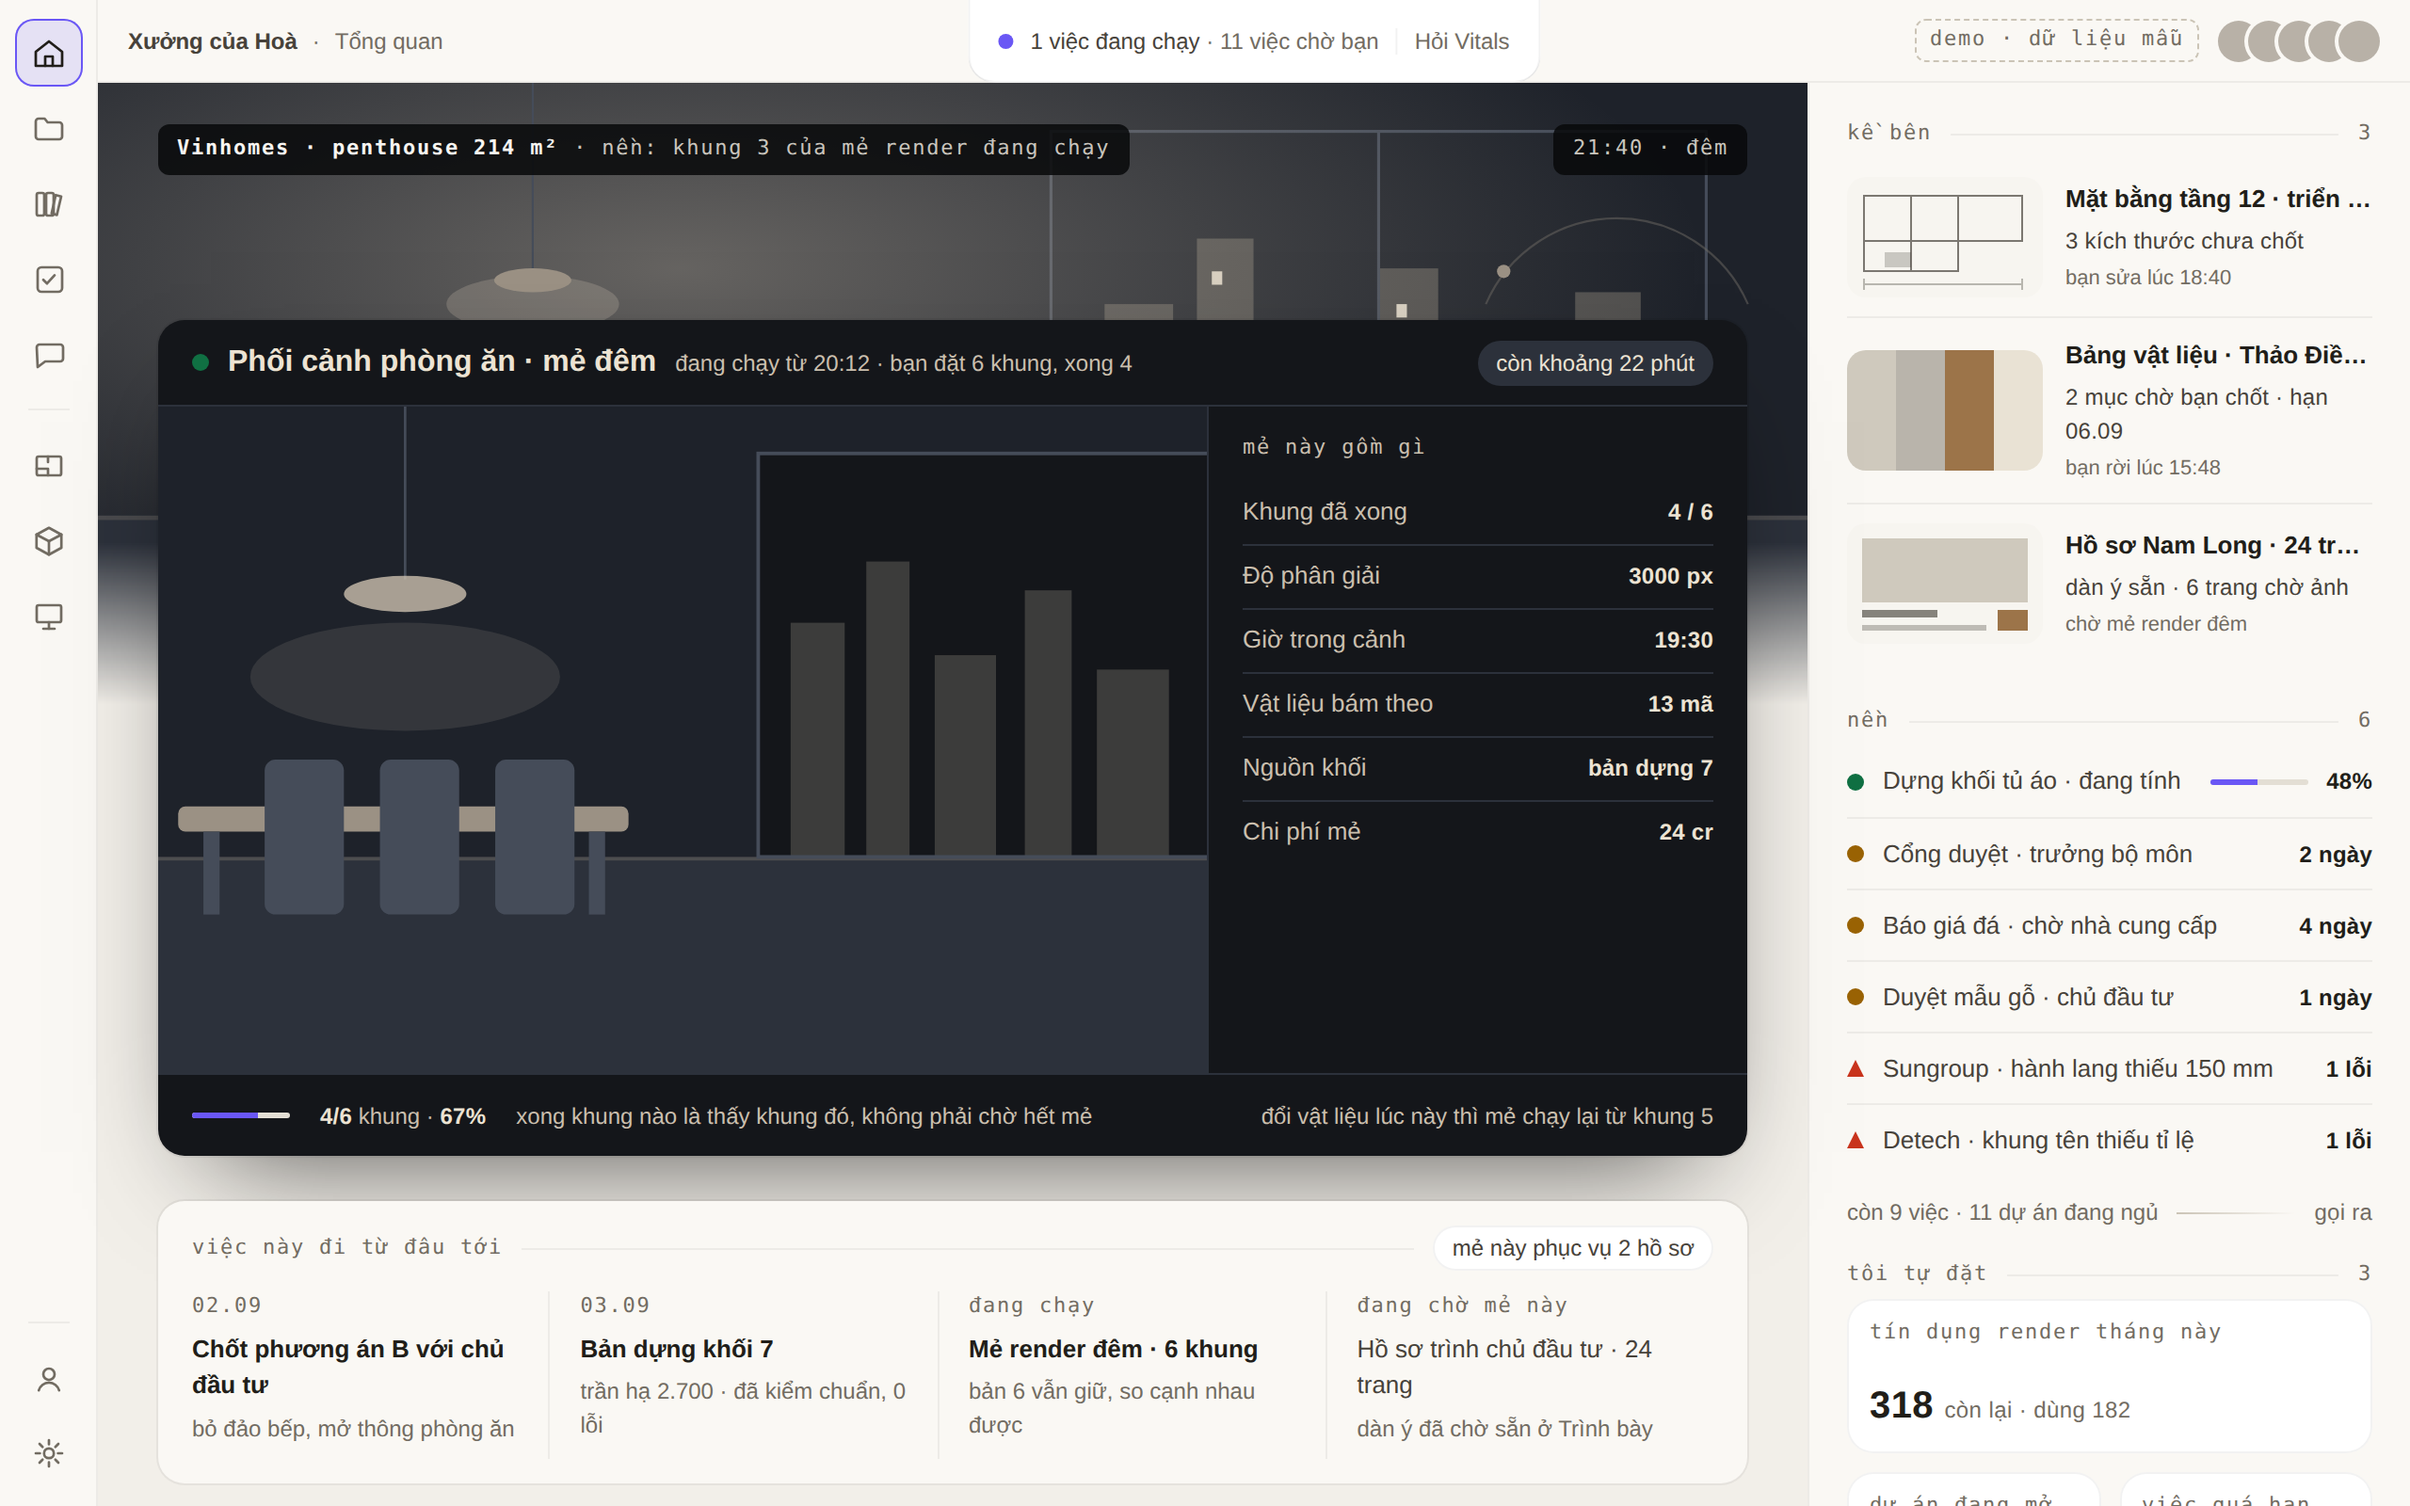
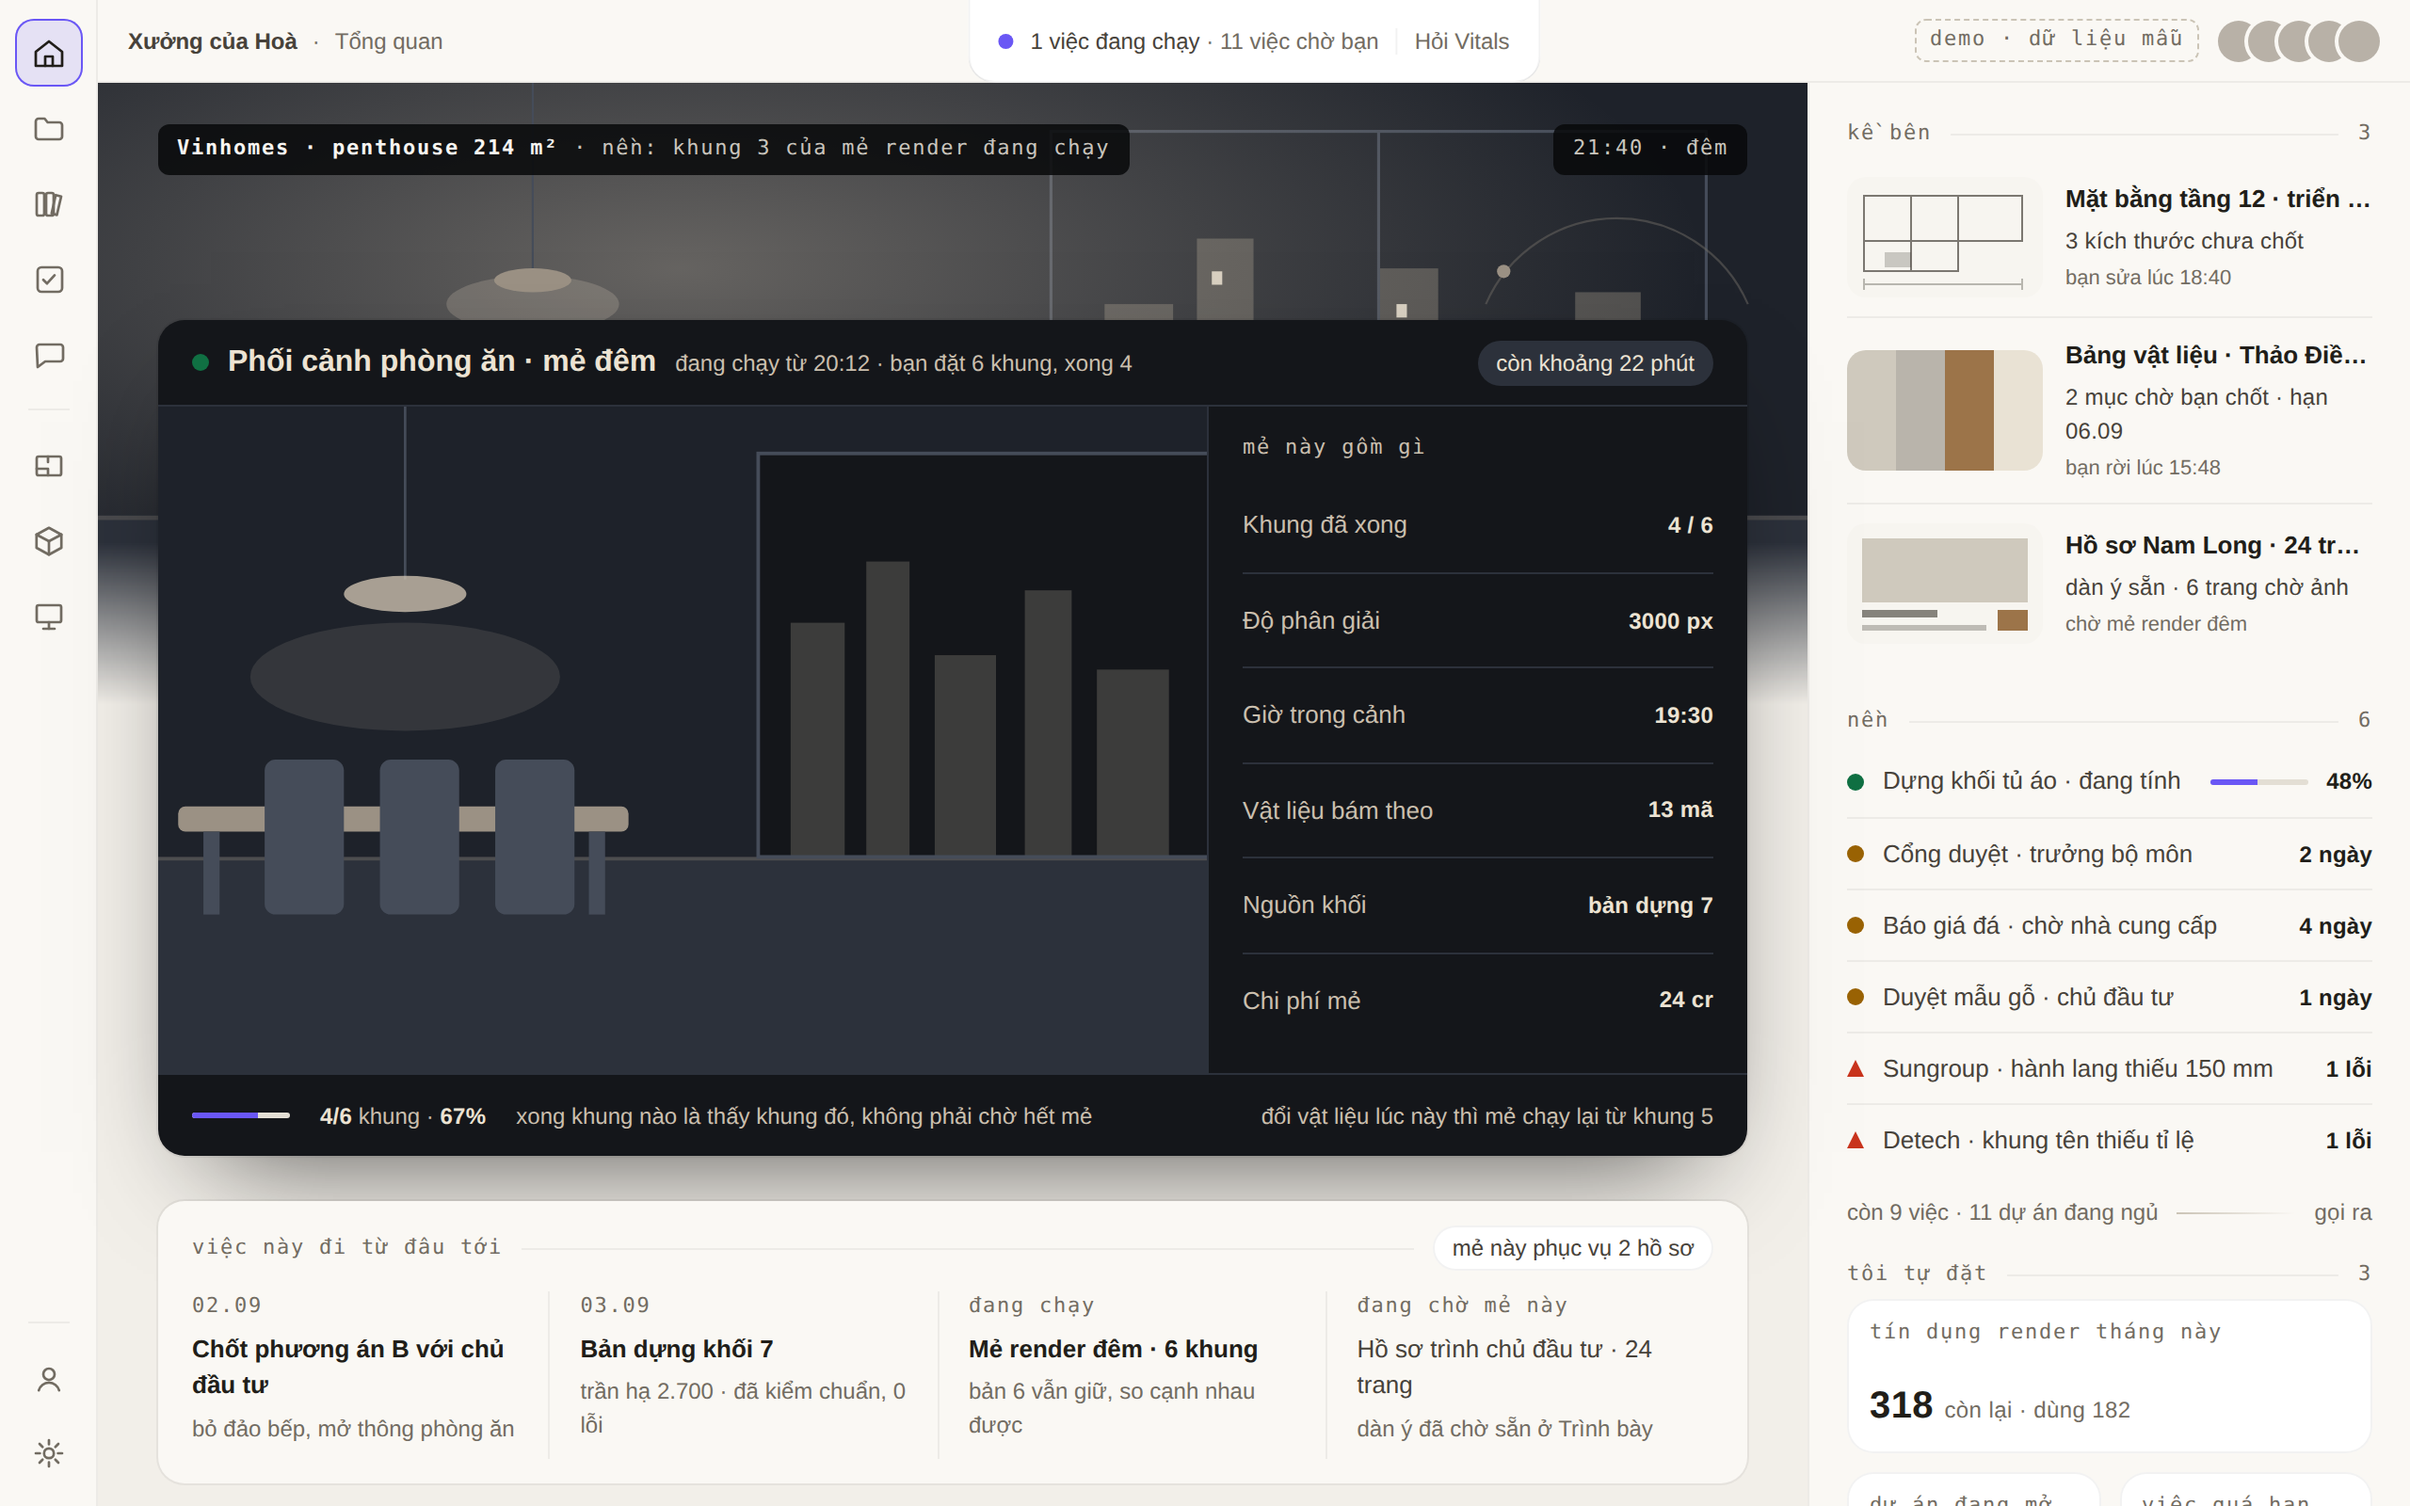
design(home): dọn hai lỗ rỗng lộ ra khi soi bằng mắt
- day-du: cột thông số cao hơn tổng 6 hàng cố định -> hàng giãn đều, hết khoảng
  chết ở đáy.
- rong: cột phải hụt nội dung thật -> thêm một mục "sẵn để mở ngay" (khung tên
  bộ nhận diện) và kệ widget 2x1 + 2 ô 1x1.

Cả hai máy đều báo sạch TRƯỚC lẫn SAU — đây là loại lỗi chỉ mắt bắt được,
đúng lý do N-16 bắt bố cục phải đi qua mắt.

soi-ban-ve 12/12 lượt sạch · hinh-hoc 0 · tu-dien 0.

Claude-Session: https://claude.ai/code/session_01U2UxY4LmQattzfXbrX5rUZ

diff --git a/docs/mocks/mock-home-lock-rong.html b/docs/mocks/mock-home-lock-rong.html
@@ -156,7 +156,7 @@
 
         <!-- Thang KHÔNG biến mất khi rỗng — nó đổi thứ đứng trên bậc:
              từ "việc cần tôi" sang "vốn tôi có". Đó là chỗ khác "Home trừ ảnh hero". -->
-        <div class="muc"><span class="nhan">sẵn để mở ngay</span><span class="ke2"></span><span class="dem">2</span></div>
+        <div class="muc"><span class="nhan">sẵn để mở ngay</span><span class="ke2"></span><span class="dem">3</span></div>
 
         <div class="ke-ben">
           <span class="mat-vat" aria-hidden="true"><svg viewBox="0 0 104 64" preserveAspectRatio="xMidYMid slice">
@@ -183,6 +183,20 @@
           </span>
         </div>
 
+        <div class="ke-ben an-hep">
+          <span class="mat-vat" aria-hidden="true"><svg viewBox="0 0 104 64" preserveAspectRatio="xMidYMid slice">
+            <rect x="0" y="0" width="104" height="64" fill="var(--nen-sang)"/>
+            <g stroke="var(--muc)" stroke-width="1" opacity=".5" fill="none">
+              <rect x="9" y="9" width="86" height="46"/><path d="M9 42h86M62 42v13"/></g>
+            <rect x="14" y="14" width="26" height="4" fill="var(--muc)" opacity=".5"/>
+            <rect x="14" y="22" width="40" height="3" fill="var(--muc)" opacity=".25"/></svg></span>
+          <span class="chu">
+            <span class="ten">Khung tên · bộ nhận diện trống</span>
+            <span class="con-so so">9 ô · chờ Brand Kit của dự án</span>
+            <span class="khi">mẫu đi kèm IF</span>
+          </span>
+        </div>
+
         <div class="muc" style="margin-top:18px"><span class="nhan">kho của xưởng</span><span class="ke2"></span><span class="dem">4</span></div>
 
         <div class="o-nen"><span class="dau chay" aria-hidden="true"></span><span class="ten">Vật liệu · có giá và nhà cung cấp</span><span class="num so">248</span></div>
@@ -192,10 +206,11 @@
 
         <div class="khi-goi"><span>còn kho mẫu hồ sơ và bộ nhận diện</span><span class="vach-mo" aria-hidden="true"></span><span class="so">gọi ra</span></div>
 
-        <div class="muc"><span class="nhan">tôi tự đặt</span><span class="ke2"></span><span class="dem">2</span></div>
+        <div class="muc"><span class="nhan">tôi tự đặt</span><span class="ke2"></span><span class="dem">3</span></div>
         <div class="ke-widget">
-          <div class="o-w w1"><span class="nh">mẫu mới trong kho</span><span class="gt so">12</span></div>
-          <div class="o-w w1"><span class="nh">thẻ DNA</span><span class="gt so">6</span></div>
+          <div class="o-w w2"><span class="nh">kho chung cập nhật</span><span class="gt so">12 <small>mẫu mới tuần này</small></span></div>
+          <div class="o-w w1"><span class="nh">thẻ DNA mẫu</span><span class="gt so">6</span></div>
+          <div class="o-w w1"><span class="nh">bộ quy chuẩn</span><span class="gt so">12</span></div>
         </div>
         <div class="dan"></div>
       </aside>

diff --git a/docs/mocks/mock-home-lock-day-du.html b/docs/mocks/mock-home-lock-day-du.html
@@ -10,7 +10,9 @@
   display:flex;flex-direction:column;gap:0}
 .canh-so .tit{font:500 var(--fs-2xs)/1.5 ui-monospace,Menlo,monospace;letter-spacing:.08em;
   color:var(--canh-6);margin-bottom:8px}
-.ts{display:flex;align-items:center;gap:10px;height:34px;flex:0 0 34px}
+.ts{display:flex;align-items:center;gap:10px;min-height:34px;flex:1}
+/* Hàng GIÃN ĐỀU thay vì cao cố định: cột thông số cao hơn tổng 6 hàng, để cố định thì
+   dư ra một khoảng trống ở đáy — đọc ra là lỗ, không đọc ra là khoảng thở. */
 .ts+.ts{border-top:1px solid var(--canh-2)}
 .ts .n{flex:1;font-size:var(--fs-ui);color:var(--canh-6);line-height:1.5}
 .ts .v{font-size:var(--fs-xs);font-weight:600;color:var(--canh-7);line-height:1.5}
